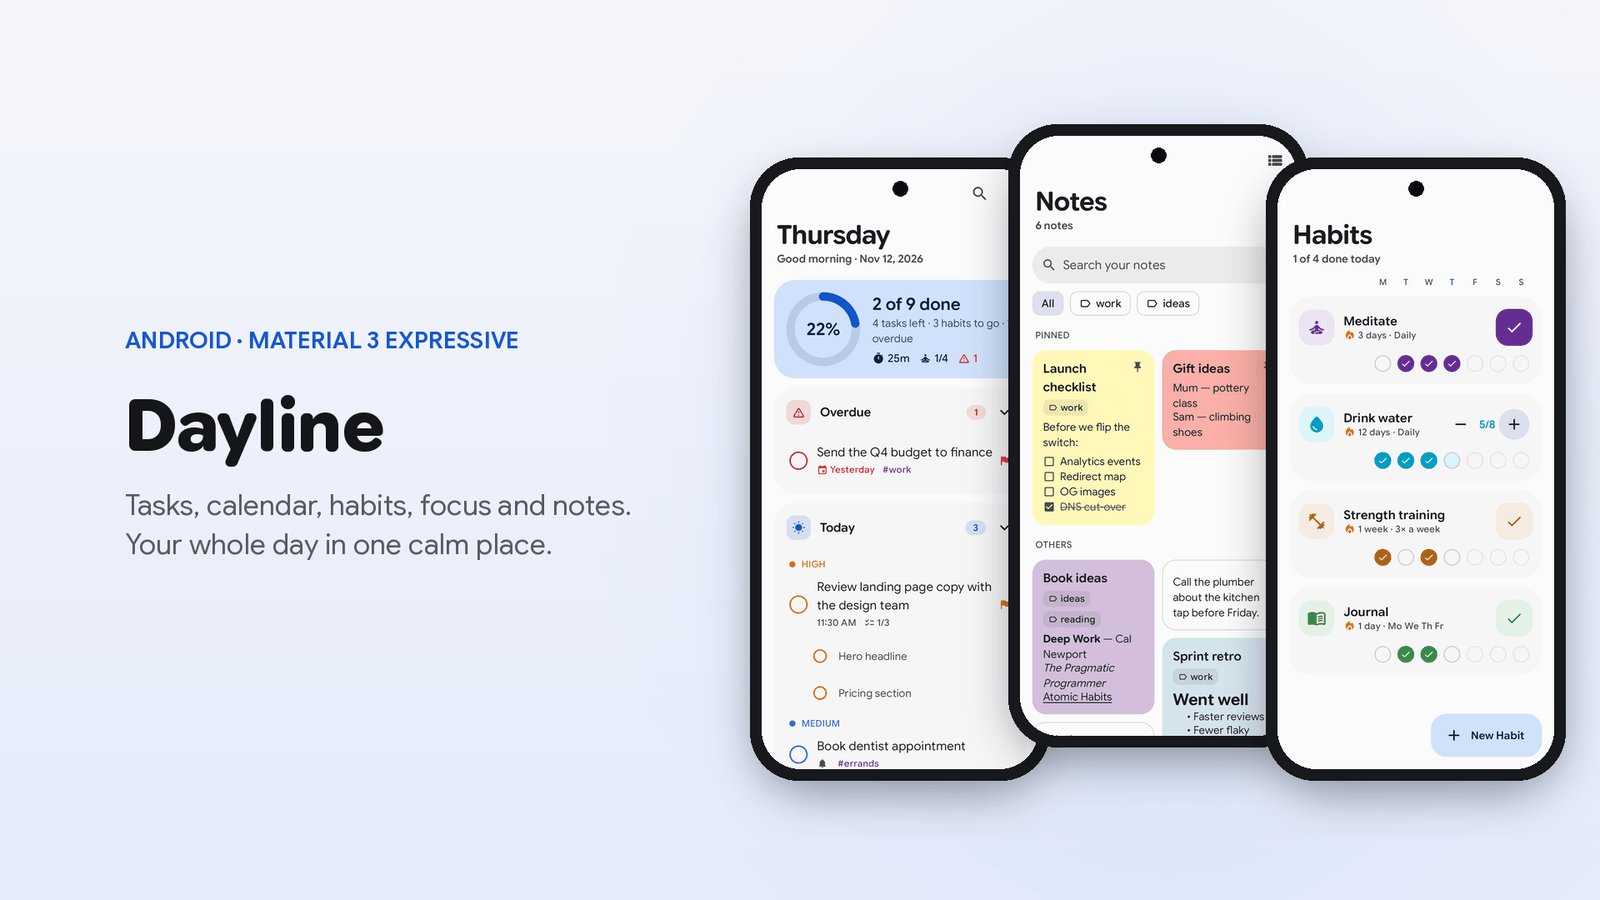
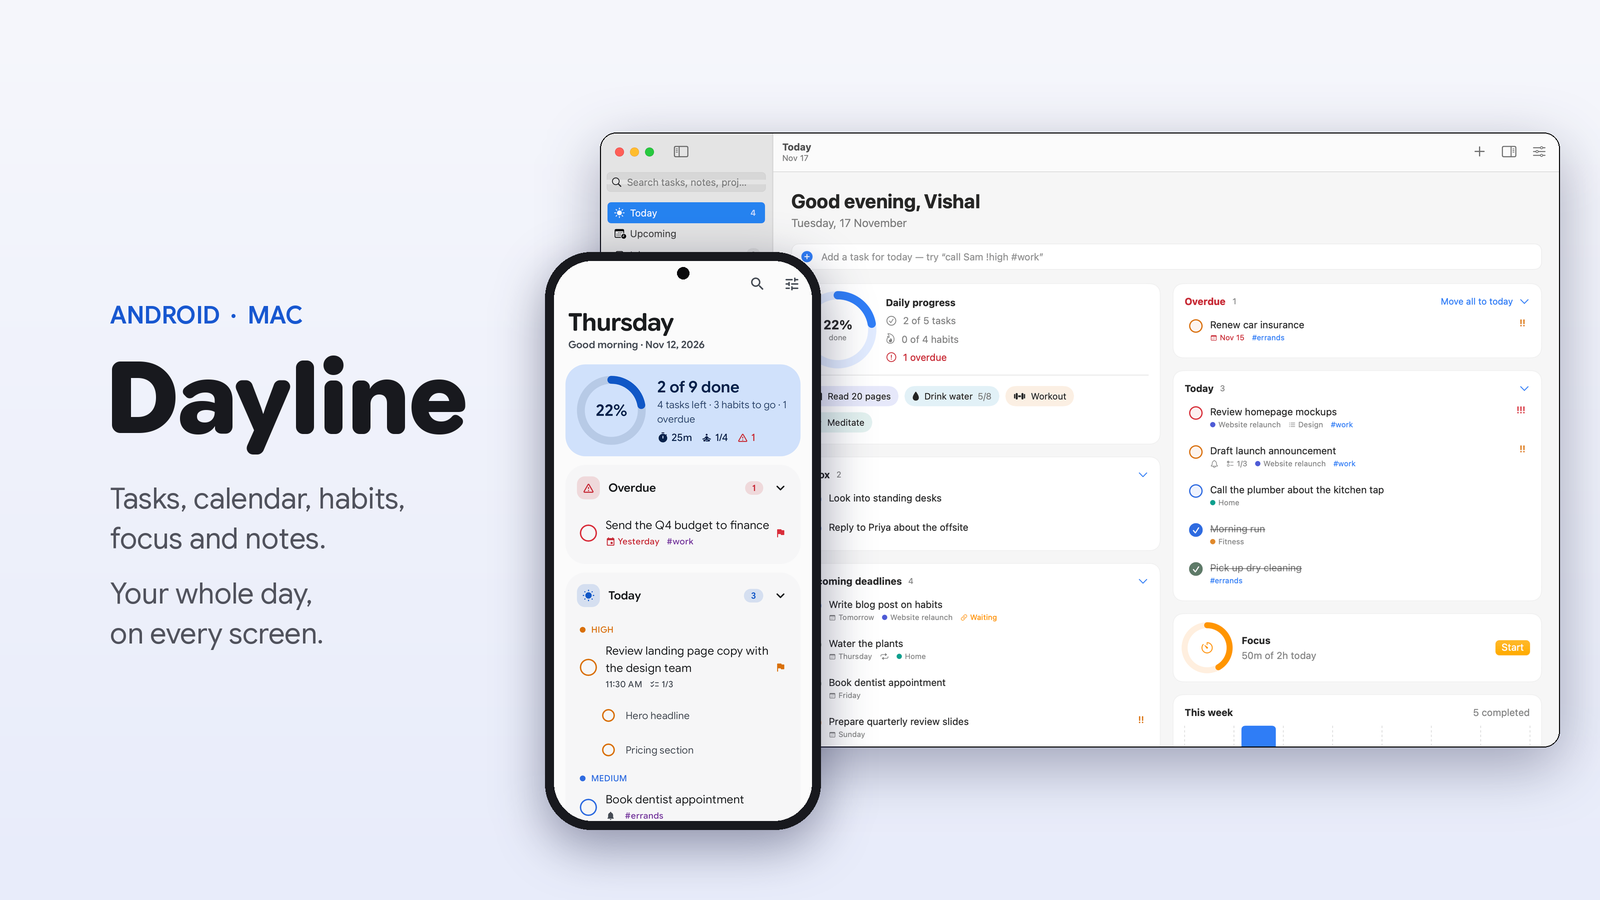
Update README for Android and Mac
New banner and Mac gallery, a download table for both apps, phone- and Mac-specific features, and how to sync them. Developer setup now lives only in CONTRIBUTING.md, which also covers the Mac app; the bug report form asks which app.

Changed region(s): [[0.0625, 0.1244, 1.0, 0.9644], [0.0625, 0.6533, 0.1875, 0.7156], [0.9062, 0.3111, 0.9375, 0.3422]]

diff --git a/README.md b/README.md
@@ -1,21 +1,19 @@
 <p align="center">
-  <img src="docs/hero.png" alt="Dayline: tasks, calendar, habits, focus and notes for Android" width="100%">
+  <img src="docs/hero.png" alt="Dayline on an Android phone and a Mac" width="100%">
 </p>
 
 <h1 align="center">Dayline</h1>
 
 <p align="center">
   <b>Your whole day, in one calm place.</b><br>
-  Tasks, calendar, habits, focus sessions and notes in one native Android app, built with Material 3 Expressive.
+  Tasks, calendar, habits, focus sessions and notes on your Android phone and your Mac, kept in step through your own Google Drive.
 </p>
 
 <p align="center">
-  <img alt="Android 8.0+" src="https://img.shields.io/badge/Android-8.0%2B-3DDC84?logo=android&logoColor=white">
-  <img alt="Kotlin" src="https://img.shields.io/badge/Kotlin-2.3-7F52FF?logo=kotlin&logoColor=white">
-  <img alt="Jetpack Compose" src="https://img.shields.io/badge/Jetpack%20Compose-Material%203%20Expressive-4285F4?logo=jetpackcompose&logoColor=white">
+  <a href="https://github.com/VishalChavan7/Dayline/releases/latest"><img alt="Download for Android" src="https://img.shields.io/badge/Android-8.0%2B-3DDC84?logo=android&logoColor=white"></a>
+  <a href="https://github.com/VishalChavan7/Dayline/releases/tag/mac-v1.0.0"><img alt="Download for Mac" src="https://img.shields.io/badge/macOS-14%2B-111111?logo=apple&logoColor=white"></a>
   <img alt="Offline first" src="https://img.shields.io/badge/offline-first-1757D0">
   <img alt="No ads, no tracking" src="https://img.shields.io/badge/ads%20%26%20tracking-none-555">
-  <a href="https://github.com/VishalChavan7/Dayline/releases/latest"><img alt="Latest release" src="https://img.shields.io/github/v/release/VishalChavan7/Dayline?label=download&color=1757D0"></a>
   <a href="LICENSE"><img alt="MIT License" src="https://img.shields.io/badge/license-MIT-green"></a>
   <a href="CONTRIBUTING.md"><img alt="Contributions welcome" src="https://img.shields.io/badge/contributions-welcome-brightgreen"></a>
 </p>
@@ -28,79 +26,87 @@ https://github.com/user-attachments/assets/e3f5f510-7ffb-4237-b1e9-05389b6c7303
 
 ## Download
 
-Get the latest APK from **[Releases](https://github.com/VishalChavan7/Dayline/releases/latest)**, open it on your phone and allow installing from your browser or file manager when Android asks. Dayline runs on Android 8.0 and newer. From version 1.1.0 on, Dayline updates itself from here.
+| | Get it | Needs |
+|---|---|---|
+| 📱 **Android** | [**Dayline for Android**](https://github.com/VishalChavan7/Dayline/releases/latest): download the `.apk` and open it on your phone | Android 8.0 or newer |
+| 💻 **Mac** | [**Dayline for Mac**](https://github.com/VishalChavan7/Dayline/releases/tag/mac-v1.0.0): download the `.zip`, open it and drag **Dayline** into Applications | macOS 14 Sonoma or newer, Apple silicon (M1 or later) |
 
-## Dayline for Mac
+Both apps update themselves after you install them.
 
-A native Mac version, built with SwiftUI for Apple silicon (macOS 14 Sonoma or newer). It has the same Today view, tasks, calendar (month, week and year, with drag-to-reschedule), habits, focus timer, notes and statistics. It adds a menu bar item for today's tasks, quick add and the focus timer, and it syncs with your phone through the same private file in your Google Drive.
+<details>
+<summary>First time opening the apps</summary>
 
-<p align="center">
-  <img src="docs/mac-today.png" alt="Dayline for Mac: Today" width="49%">
-  <img src="docs/mac-calendar-dark.png" alt="Dayline for Mac: Calendar in dark mode" width="49%">
-</p>
-
-**Install:** download `Dayline-mac-<version>.zip` from the [Mac release](https://github.com/VishalChavan7/Dayline/releases?q=mac&expanded=true), unzip it and drag **Dayline** into Applications. The app isn't notarized by Apple yet, so the first time macOS says it can't verify it: open **System Settings → Privacy & Security** and click **Open Anyway**. After that, Dayline for Mac updates itself. To build it yourself, see [macos/README.md](macos/README.md).
+- **Android:** allow installing from your browser or file manager when Android asks. If Play Protect says it hasn't seen the app before, tap **Scan app** and then **Install**.
+- **Mac:** Dayline isn't notarized by Apple yet, so the first time macOS says it can't verify the app. Open **System Settings → Privacy & Security**, scroll down and click **Open Anyway**. You only need to do this once.
+</details>
 
 ## Why Dayline
 
-Most people juggle a to-do app, a calendar, a habit tracker, a timer and a notes app. Dayline puts all five on one screen-friendly home, so planning the day, doing the work and building routines happen in the same place.
+Most people juggle a to-do app, a calendar, a habit tracker, a timer and a notes app. Dayline puts all five in one place, on your phone and your computer, so planning the day, doing the work and building routines happen together.
 
 - **Students:** track assignments with due dates, plan the exam week on the calendar, and study in focus sessions.
 - **Professionals:** capture tasks in a tap, set priorities and dependencies, and keep meeting notes with checklists next to them.
-- **Habit builders:** check in daily, count reps or glasses of water, and watch streaks grow on the home screen.
+- **Habit builders:** check in daily, count reps or glasses of water, and watch your streaks grow.
 - **Anyone who wants calm:** one clear Today view instead of five apps, and no account, ads or tracking.
 
 ## Features
 
 ### ☀ Today
 - A daily dashboard with a progress ring for tasks **and** habits, focus time and overdue count.
-- Overdue, Today and Completed sections, grouped by priority, with subtasks shown inline.
-- Swipe right to complete and swipe left to delete, with undo.
+- Overdue, Today, Inbox and Upcoming deadlines sections, grouped by priority, plus a weekly summary and a daily quote.
+- Choose which sections you see and in what order.
 
 ### ✅ Tasks
-- **Quick capture:** tap **+** to add a task, or press and hold for a note, habit or focus session.
-- Natural typing: `tomorrow`, `!high` and `#tag` are understood as you write.
-- Due and start dates, times, repeats (daily, weekly, monthly, custom), multiple reminders and attachments.
+- **Quick capture** with natural typing: `tomorrow`, `friday`, `!high` and `#tag` are understood as you write.
+- Due and start dates, times, repeats (daily, weekly, monthly, custom), multiple reminders, subtasks, links and attachments.
 - **Dependencies:** a task waiting on another can't be completed or deleted until its blocker is done.
-- Inbox, Upcoming (Tomorrow / This week / Next week), All tasks and Completed views.
+- Projects, lists and tags, plus Inbox, Upcoming (Tomorrow / This week / Next week) and Completed views.
 
 ### 📅 Calendar
-- **Month, week and year** views with coloured task dots.
-- Long-press a task in week view and drag it to another day to reschedule it.
+- **Month, week and year** views, with repeating tasks shown ahead of time.
+- Drag a task to another day to reschedule it.
 
 ### 🔥 Habits
-- Daily, x-times-a-week or specific-day habits, plus counters (for example 5/8 glasses).
-- Streaks, a week-at-a-glance row of check-ins, and a satisfying haptic on every check-in.
+- Daily, x-times-a-week or specific-day habits, plus counters (for example 5/8 glasses of water).
+- Streaks that forgive unscheduled days, and a week-at-a-glance row of check-ins.
 
 ### ⏱ Focus
-- A Pomodoro-style focus timer with an expressive ring that changes shape as time passes.
-- Gentle vibration in the last seconds, and it keeps running safely in the background.
+- A Pomodoro-style focus timer with short and long breaks, linked to the task you're working on.
+- A daily focus goal and a record of every session.
 
 ### 📊 Statistics
 - Day, week and month views: completed vs. remaining, completion rate, missed deadlines, focus time and habit consistency, with trends against the previous period.
+- A heatmap of everything you've completed over the last few months.
 
 ### 📝 Notes
-- Rich text: bold, italic, underline, strikethrough, text colour, highlight, alignment and lists.
-- Inline checklists, `#labels` with custom icons, colour-coded notes, pinning and search.
-- Add images, drawings and voice notes. Press and hold **New Note** to start with one.
+- Rich text: bold, italic, underline, strikethrough, headings and lists.
+- Checklists, `#labels`, colour-coded notes, pinning and search.
 
-### 🧩 Home-screen widgets
-Seven widgets: **Today's tasks, Daily progress, Next up, Habit streaks, Streak flower, Focus timer** and **Quick add**. They resize to fit any home-screen grid (4×5, 5×5, 5×6 and more), and each can have its own artistic background in Settings.
+### 🔔 Reminders and updates
+- Reminders for tasks, habits and the focus timer, with **Complete** and **Snooze** right from the notification.
+- Both apps check this page for new versions and offer a one-click update.
 
-### 🎨 Design
-- Material 3 Expressive throughout: Google Sans Flex, large rounded surfaces, springy motion and haptics.
-- Themes: dynamic colour (Material You), monochrome, five gradients and a dynamic gradient, in light or dark.
-- Tested on screens from 320 dp small phones and 130% font size to foldables and landscape.
+## On your phone
 
-### 🔄 Automatic updates
-- Dayline checks this repository's releases in the background, downloads new versions and lets you know with a notification.
-- Open the app and a popup offers a one-tap update. You can also check any time in **More → Check for updates**.
+- **Home-screen widgets:** Today's tasks, Daily progress, Next up, Habit streaks, Streak flower, Focus timer and Quick add. They fit any home-screen grid, and each can have its own artistic background.
+- **Material 3 Expressive design:** dynamic colour (Material You), monochrome and gradient themes, springy motion and haptics.
+- **Gestures:** swipe right to complete and left to delete, with undo; press and hold **+** to add a note, habit or focus session.
+- **Notes extras:** add images, drawings and voice notes.
 
-### 🔒 Sync and privacy
-- Works fully offline. Everything is stored on your phone.
-- Optional **Google sync** keeps a private copy in your own Google Drive's hidden app folder and keeps your devices in step. Switch accounts or disconnect any time. Nothing ever goes to a Dayline server, because there isn't one.
-- Export and import a full JSON backup at any time.
-- [Privacy policy](https://vishalchavan7.github.io/privacy.html)
+## On your Mac
+
+- **A real Mac app:** sidebar navigation, a details panel for the selected task, and light and dark mode.
+- **Menu bar:** today's tasks and habits, quick add and the focus timer, without opening the app.
+- **Keyboard first:** ⌘N for a new task, ⌘1–⌘8 to jump between sections, ⇧⌘F to start or pause the focus timer.
+
+<p align="center"><img src="docs/gallery-mac.png" alt="Dayline for Mac: calendar, habits, notes and statistics" width="100%"></p>
+
+## Use it on your phone and Mac together
+
+1. On your phone, open **Settings → Google sync** and connect your Google account.
+2. On your Mac, connect the **same Google account** when Dayline asks (or later in **Settings → Sync**).
+
+Your tasks, projects, habits, notes, focus history and settings then stay in step on both. If both devices change before they can sync, Dayline keeps one version and saves the other, so nothing is lost.
 
 ## Screenshots
 
@@ -116,52 +122,17 @@ Seven widgets: **Today's tasks, Daily progress, Next up, Habit streaks, Streak f
 **Dark mode**
 <p align="center"><img src="docs/gallery-dark.png" alt="Today, calendar, habits and notes in dark mode" width="100%"></p>
 
-## Tech stack
+## Privacy
 
-| | |
-|---|---|
-| Language & UI | Kotlin 2.3, Jetpack Compose, Material 3 Expressive |
-| Architecture | MVVM with clean layers: pure-Kotlin domain rules, Room repositories as the single source of truth, `Flow`-driven screens |
-| Data | Room, DataStore, JSON backup |
-| Background work | WorkManager, AlarmManager (exact reminders), a background-safe focus timer |
-| Widgets | Jetpack Glance |
-| Sync | Google Identity authorization and the Drive REST API (`drive.appdata` scope only) |
-| DI & tests | Hilt; JUnit, Robolectric, Turbine and Roborazzi screenshot tests across 9 phone set-ups |
+- Works fully offline. Everything is stored on your own devices.
+- Google sync is optional. It keeps one private file in your own Google Drive's hidden app folder, which Dayline can't use to see any of your other files. Switch accounts or disconnect any time.
+- No ads, no analytics, no tracking, and no Dayline server, so your data never goes to the developer.
+- Export and restore a full backup any time; backups move freely between the phone and the Mac.
+- Read the [privacy policy](https://vishalchavan7.github.io/privacy.html).
 
-```
-app/src/main/java/com/dayline/app/
-├── core/          models, domain rules (recurrence, streaks, stats, quick-add parser), Room, repositories, backup
-├── notifications/ reminders, channels, alarm scheduling
-├── focus/         focus timer controller
-├── sync/          Google Drive sync
-├── widget/        home-screen widgets
-└── ui/            Compose screens, ViewModels, theme and components
-```
+## Feedback and contributing
 
-## Getting started
-
-**Requirements:** Android Studio 2025.2+ (or JDK 17 and Android SDK 36). Gradle downloads itself through the wrapper.
-
-```bash
-./gradlew :app:assembleDebug        # build the APK
-./gradlew :app:installDebug         # install on a connected phone
-./gradlew :app:testDebugUnitTest    # run all unit, flow and screenshot tests
-```
-
-In Android Studio: **File → Open**, choose this folder, wait for Gradle sync, then press **Run ▶**.
-
-### Google sync (developer setup)
-Sync needs a one-time Google Cloud setup: enable the **Google Drive API**, configure the OAuth consent screen with the `drive.appdata` scope, and add an **Android OAuth client** for `com.dayline.app` with your signing key's SHA-1. Every build writes that SHA-1 to `outputs/google-sync-setup.txt`. Users then connect with one tap in **Settings → Google sync**.
-
-## Contributing
-
-Contributions are welcome, whether that's a bug report, an idea, a translation, a design tweak or code.
-
-1. Look through [open issues](https://github.com/VishalChavan7/Dayline/issues) or open a new one to discuss your idea.
-2. Fork the repo, create a branch, make your change, and run `./gradlew :app:testDebugUnitTest`.
-3. Open a pull request with a short description and, for UI changes, before and after screenshots.
-
-See **[CONTRIBUTING.md](CONTRIBUTING.md)** for the full guide, code style and project conventions.
+Found a bug or have an idea? [Open an issue](https://github.com/VishalChavan7/Dayline/issues/new/choose). Contributions of any kind are welcome, whether that's a bug report, a design tweak, a translation or code. See **[CONTRIBUTING.md](CONTRIBUTING.md)** to get started.
 
 ## License
 

diff --git a/CONTRIBUTING.md b/CONTRIBUTING.md
@@ -4,11 +4,11 @@ Thanks for helping make Dayline better! Bug reports, ideas, design feedback, tra
 
 ## Before you start
 
-- **Found a bug?** [Open a bug report](https://github.com/VishalChavan7/Dayline/issues/new?template=bug_report.yml) with your phone model, Android version and steps to reproduce.
+- **Found a bug?** [Open a bug report](https://github.com/VishalChavan7/Dayline/issues/new?template=bug_report.yml) with your device (phone model and Android version, or Mac model and macOS version) and steps to reproduce.
 - **Have an idea?** [Suggest a feature](https://github.com/VishalChavan7/Dayline/issues/new?template=feature_request.yml) first, so we can agree on the approach before you spend time on it.
 - **Want to code?** Pick an open issue (look for `good first issue` or `help wanted`) and comment that you're working on it.
 
-## Set up the project
+## Set up the Android app
 
 1. Install **Android Studio 2025.2+** (or JDK 17 and Android SDK 36).
 2. Fork this repository and clone your fork.
@@ -22,6 +22,18 @@ The debug build installs as `com.dayline.app.debug`, so it can sit next to the r
 ```
 
 Google sync is optional for development. To try it, create your own Google Cloud project and add an Android OAuth client for `com.dayline.app.debug` with your debug key's SHA-1 (printed to `outputs/google-sync-setup.txt` after a build). Everything else works without it.
+
+## Set up the Mac app
+
+The Mac app lives in [`macos/`](macos). It's a SwiftUI app for macOS 14+ that builds with Apple's free Command Line Tools (`xcode-select --install`); Xcode is optional.
+
+```bash
+cd macos
+swift run DaylineChecks   # self-checks for the shared rules and the sync file format
+./build.sh                # builds Dayline.app
+```
+
+The Mac and Android apps share one data format (the backup / Google Drive sync file), so a change to the data model needs to land in both. See [macos/README.md](macos/README.md) for details.
 
 ## How the code is organised
 
